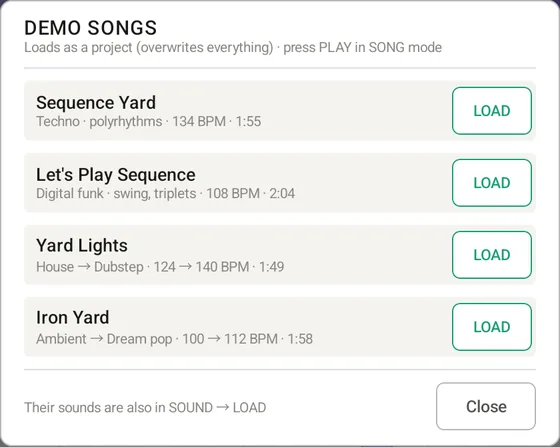
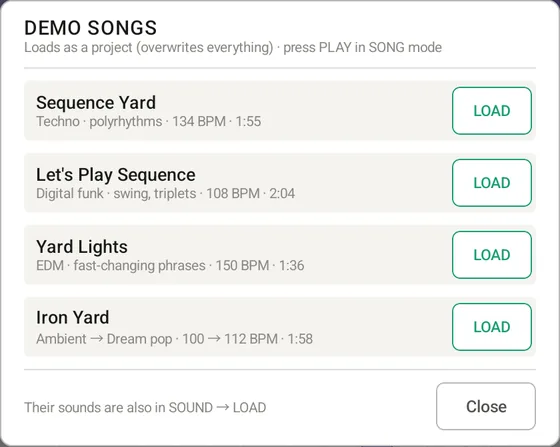
DBR-1 manual: Yard Lights is now high-speed EDM

Changed region(s): [[0.0607, 0.5235, 0.5464, 0.6107]]

diff --git a/dbr1/manual/ja.html b/dbr1/manual/ja.html
@@ -110,7 +110,7 @@
 <tr><th>曲</th><th>内容</th></tr>
 <tr><td>Sequence Yard</td><td>テクノ（134 BPM）。長さの違う無機質なシーケンス（12・10・9・7・5 ステップ）が 4 つ打ちとずれながら重なり、アシッドの線とダブのコードが動く（トラックごとの長さ → <a href="#track">3</a>）</td></tr>
 <tr><td>Let's Play Sequence</td><td>デジタルファンク（108 BPM）。ハットだけの打ち込みから、キック・スネア → スラップベース → クラビ・ブラス → ワウのコード・リード と重ねていく。強めの SWING で跳ね、3 連符のコンガ・スネア・ブラス（→ <a href="#triplet">3</a>）と 6・5 ステップのカウベル・ピュンで揺らす</td></tr>
-<tr><td>Yard Lights</td><td>ハウス（124 BPM）→ ダブステップ（140 BPM）。フィルターの開閉、コードのパン、ワブルベース</td></tr>
+<tr><td>Yard Lights</td><td>ハイスピードな EDM（150 BPM）。2 小節ごとにプラック・ボーカルチョップ・スーパーソウ・リード・グリッターのフレーズが目まぐるしく入れ替わる。音量の線でうねるスーパーソウ（サイドチェイン風）、1/16T で詰めるスネアのビルドアップ、ハーフタイムに切り替わる 3 連符のリード</td></tr>
 <tr><td>Iron Yard</td><td>アンビエント（100 BPM）→ ドリームポップ（112 BPM）。海や宇宙のような広い残響の中に、長さの違うミニマルなシーケンス（12・7・5 ステップのアルペジオ・星・ブリップ）を散りばめる。テープのように揺れるディレイ</td></tr>
 </table>
 <ul>
@@ -518,7 +518,7 @@
 <tr><td>チャンネル</td><td>モノラルで再生（ステレオは左右を合わせる）</td></tr>
 <tr><td>メモリ</td><td>16bit で保持。メモリにあるのは今のキットの音だけ（16 音）</td></tr>
 <tr><td>内蔵の音</td><td>83 音（キット 16 音 + 追加 4 音（44.1kHz / 24bit）、デモソングの音 63 音（44.1kHz / 16bit））</td></tr>
-<tr><td>デモソング</td><td>4 曲（Sequence Yard / Let's Play Sequence / Yard Lights / Iron Yard、各 約 2 分）</td></tr>
+<tr><td>デモソング</td><td>4 曲（Sequence Yard / Let's Play Sequence / Yard Lights / Iron Yard、各 1 分半〜2 分）</td></tr>
 <tr><td>同時発音</td><td>トラックごとに 1 音（次の音で前の音を短くフェードして止める）</td></tr>
 <tr><td>鳴り方</td><td>ONE SHOT / GATE（1 ステップ）/ BAR（パターンの終わりまで）。STOP で全音停止</td></tr>
 <tr><td>start / end</td><td>0〜127（再生する範囲）</td></tr>

diff --git a/dbr1/manual/en.html b/dbr1/manual/en.html
@@ -110,7 +110,7 @@
 <tr><th>Song</th><th>What it is</th></tr>
 <tr><td>Sequence Yard</td><td>Techno (134 BPM). Mechanical sequences of different lengths (12, 10, 9, 7 and 5 steps) drift against the four-on-the-floor, with an acid line and dub chords (per-track length → <a href="#track">3</a>)</td></tr>
 <tr><td>Let's Play Sequence</td><td>Digital funk (108 BPM). Starts from a lone hi-hat and builds up part by part: kick and snare → slap bass → clav and brass → wah chords and a lead. Heavy SWING makes it bounce, with triplet conga, snare and brass (→ <a href="#triplet">3</a>) and a cowbell and zap looping every 6 and 5 steps</td></tr>
-<tr><td>Yard Lights</td><td>House (124 BPM) → dubstep (140 BPM). Filter sweeps, panned chords, wobble bass</td></tr>
+<tr><td>Yard Lights</td><td>High-speed EDM (150 BPM). Pluck, vocal-chop, supersaw, lead and glitter phrases take turns every two bars. Supersaws pumped by a volume line (sidechain style), snare build-ups that tighten into 1/16T, and a half-time switch with a triplet lead</td></tr>
 <tr><td>Iron Yard</td><td>Ambient (100 BPM) → dream pop (112 BPM). Minimal, poppy sequences of different lengths (an arpeggio, stars and blips looping every 12, 7 and 5 steps) scattered across a vast, ocean- or space-like reverb, with a tape-like wobbling delay</td></tr>
 </table>
 <ul>
@@ -518,7 +518,7 @@
 <tr><td>Channels</td><td>Played as mono (stereo files are mixed down)</td></tr>
 <tr><td>Memory</td><td>Held as 16-bit; only the sounds of the current kit (16) stay in memory</td></tr>
 <tr><td>Built-in sounds</td><td>83 (16 in the kit + 4 extra, 44.1 kHz / 24-bit; 63 from the demo songs, 44.1 kHz / 16-bit)</td></tr>
-<tr><td>Demo songs</td><td>4 (Sequence Yard / Let's Play Sequence / Yard Lights / Iron Yard, about 2 minutes each)</td></tr>
+<tr><td>Demo songs</td><td>4 (Sequence Yard / Let's Play Sequence / Yard Lights / Iron Yard, 1½ to 2 minutes each)</td></tr>
 <tr><td>Polyphony</td><td>One sound per track (a new hit quickly fades out the previous one)</td></tr>
 <tr><td>Play modes</td><td>ONE SHOT / GATE (one step) / BAR (until the end of the pattern); STOP silences everything</td></tr>
 <tr><td>start / end</td><td>0–127 (the part of the sample that plays)</td></tr>
